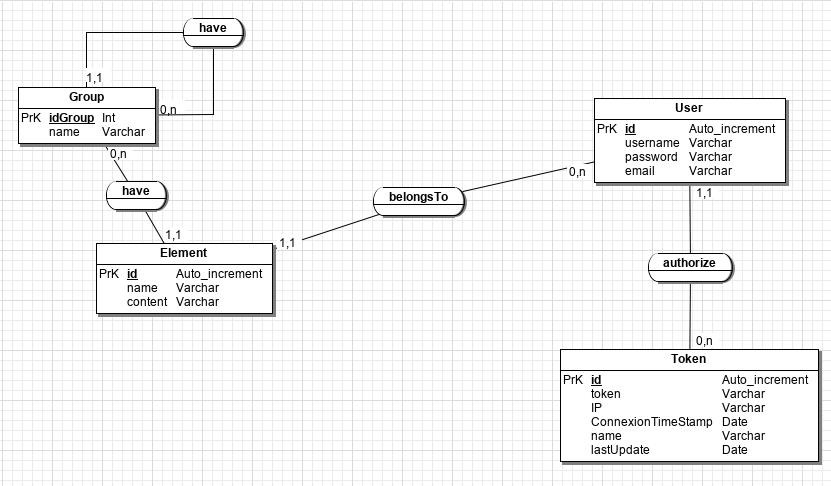
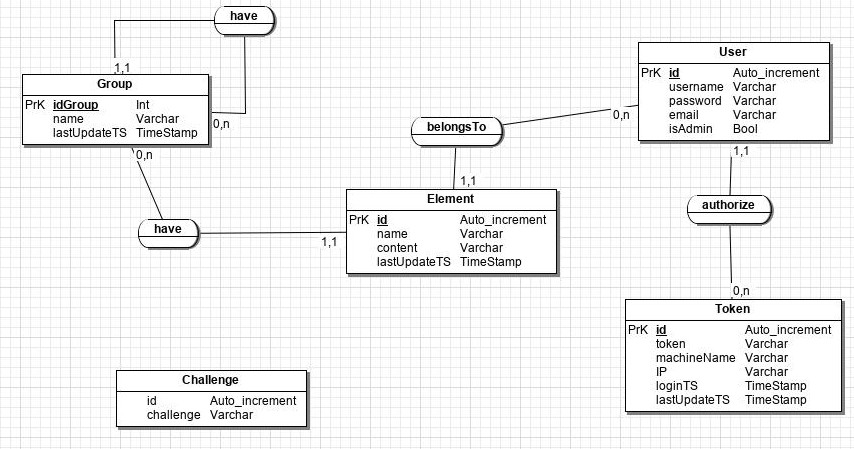
Amélioration cdc, création du doc compl

diff --git a/doc_compl.tex b/doc_compl.tex
@@ -1,0 +1,98 @@
+\documentclass[oneside]{report}
+\usepackage[T1]{fontenc}
+\usepackage[utf8]{inputenc}
+\usepackage[french]{babel}
+\usepackage{graphicx}
+\usepackage[margin=2cm]{geometry}
+\usepackage{fancyhdr}
+\usepackage{changepage}
+\usepackage{etoolbox}
+\usepackage{xcolor}
+\usepackage{titlesec}
+
+\titleformat{\chapter}[display]
+{\normalfont\huge\bfseries}{}{20pt}{\Huge}
+
+\titlespacing*{\chapter}{0pt}{0pt}{0pt}
+\graphicspath{{./images/}}
+
+\author{Sylvain COMBRAQUE, Sarah LAMOTTE, Nathan JANCZEWSKI, Léo BERGEROT}
+
+\newcommand\softname{Alohomora\ }
+\newcommand{\writecol}[1]{
+	\subitem{\textcolor[HTML]{#1}{\# #1}}
+}
+
+\patchcmd{\chapter}{plain}{fancy}{}{}
+
+\begin{document}
+
+	\begin{titlepage}
+		\centering
+		\includegraphics[scale=.5]{logo_large}
+		\vspace{5cm}
+		{\par\scshape\Huge Documents complémentaires\par}
+		\vspace{5cm}
+		{\par Gestionnaire de mot de passes\par}
+		{\par Application et API\par}
+		\vfill
+		\par Contact:
+		{\par\small Mr.\ Jerôme CUTRONA \par}
+		\par jerome.cutrona@univ-reims.fr\
+	\end{titlepage}
+
+	\pagestyle{fancy}
+	\fancyhf{}
+	\lhead{Documents complémentaires}
+	\rhead{\includegraphics[scale=.25]{logo_large}}
+	\tableofcontents
+
+	\chapter{Informations générales}
+	\vspace{2cm}
+	\par Les requêtes auront lieu à l'URL "https://alohomora.pw/api/". L'API étant basé sur GraphQL, aucune autre route ne sera à prévoir.
+	\par Le serveur pourra au choix activer ou désactiver l'inscription publique (N'importe qui peut s'inscrire), l'inscription via API (L'utilisateur ne pourra s'inscrire que depuis le site web), le nombre de requêtes par minutes (éviter un flood de 'getUpdates').
+
+	\chapter{Diagrammes réseau}
+	\vspace{2cm}
+	\section{Inscription}{
+		\par L'inscription au serveur est effectué via une requête register.\\
+		\vspace{.5cm}
+		\begin{center}
+			\includegraphics[scale=.5]{reseau_register}
+		\end{center}
+	}
+
+	\section{Connexion}{
+		\par La connexion au serveur permet à l'utilisateur d'obtenir un token lui permettant d'intéragir avec son compte sans que le mot de passe transite. Ce token pourra aussi être révoqué.\\
+		\vspace{.5cm}
+		\begin{center}
+			\includegraphics[scale=.5]{reseau_connexion}
+		\end{center}
+	}
+
+	\section{Récupérer les changements côté serveur}{
+		\par Le client peut demander au serveur tous ce qui a changé sur son compte depuis sa dernière mise à jour.
+		\par Par défaut, le client peut demander à un interval régulier des mises à jour, cependant le serveur peut refuser et demander au client une synchronisation manuelle via un bouton "Refresh"
+		\begin{center}
+			\includegraphics[scale=.5]{reseau_getupdates}
+		\end{center}
+	}
+
+	\section{Ajout d'un élément}{
+		\par Pour ajouter un élément, le client fait une requête en joignant un élément JSON chiffré.
+		\par Afin de respecter une cohérence entre les clients, un schéma nécessaire est fourni dans les chapitres suivant de ce document.
+		\begin{center}
+			\includegraphics[scale=.5]{reseau_add_elt}
+		\end{center}
+
+	}
+
+	\section{Modification ou suppression d'un élément}{
+		\par De la même façon que pour ajouter un élément, un client peut le modifier en renvoyant ce dernier et en précisant son ID.
+		\par Pour supprimer un élément, le client envoie une requête de modification sans paramètre du contenu.
+		\begin{center}
+			\includegraphics[scale=.5]{reseau_update_elt}
+		\end{center}
+	}
+
+\end{document}

diff --git a/cahier_des_charges.tex b/cahier_des_charges.tex
@@ -19,7 +19,7 @@
 \author{Sylvain COMBRAQUE, Sarah LAMOTTE, Nathan JANCZEWSKI, Léo BERGEROT}
 
 \newcommand\softname{Alohomora\ }
-\newcommand{\writecol}[1] {
+\newcommand{\writecol}[1]{
 	\subitem{\textcolor[HTML]{#1}{\# #1}}
 }
 
@@ -150,12 +150,13 @@
 	\begin{itemize}
 		\item \par Une API Web codée en Symfony 4 reposant sur un serveur MySQL pour la gestion des données utilisateur.\\
 		\item \par Un client JavaFX pour le logiciel principal\\
-		\item \par En fonction du temps disponible, un client Web (ReactJS) et un client smartphone (React Native) seront créés. 
+		\item \par En fonction du temps disponible, un client Web (ReactJS) et un client smartphone (React Native) seront créés.
 	\end{itemize}
 	\section{Base de donnée}
 	\includegraphics[scale=2]{mcd}
 
 	\section{User stories}
+	\includegraphics[scale=.40]{userstories}
 
 	\chapter{Planning prévisionnel}
 	\par L'utilisation de la méthode agile \textit{SCRUM} implique que nous recueillerons les fonctions essentielles à partir du cahier des charges et des users stories, par conséquent nous écrirons des \textit{backlogs} du produit (liste des fonctionnalités) qui seront classées par priorité, permettant de définir l'ordre de réalisation et ensuite les \textit{sprints} seront réalisés avec toute l'équipe de développement en décidant du sous-ensemble qui sera à réaliser à chaque fois.
